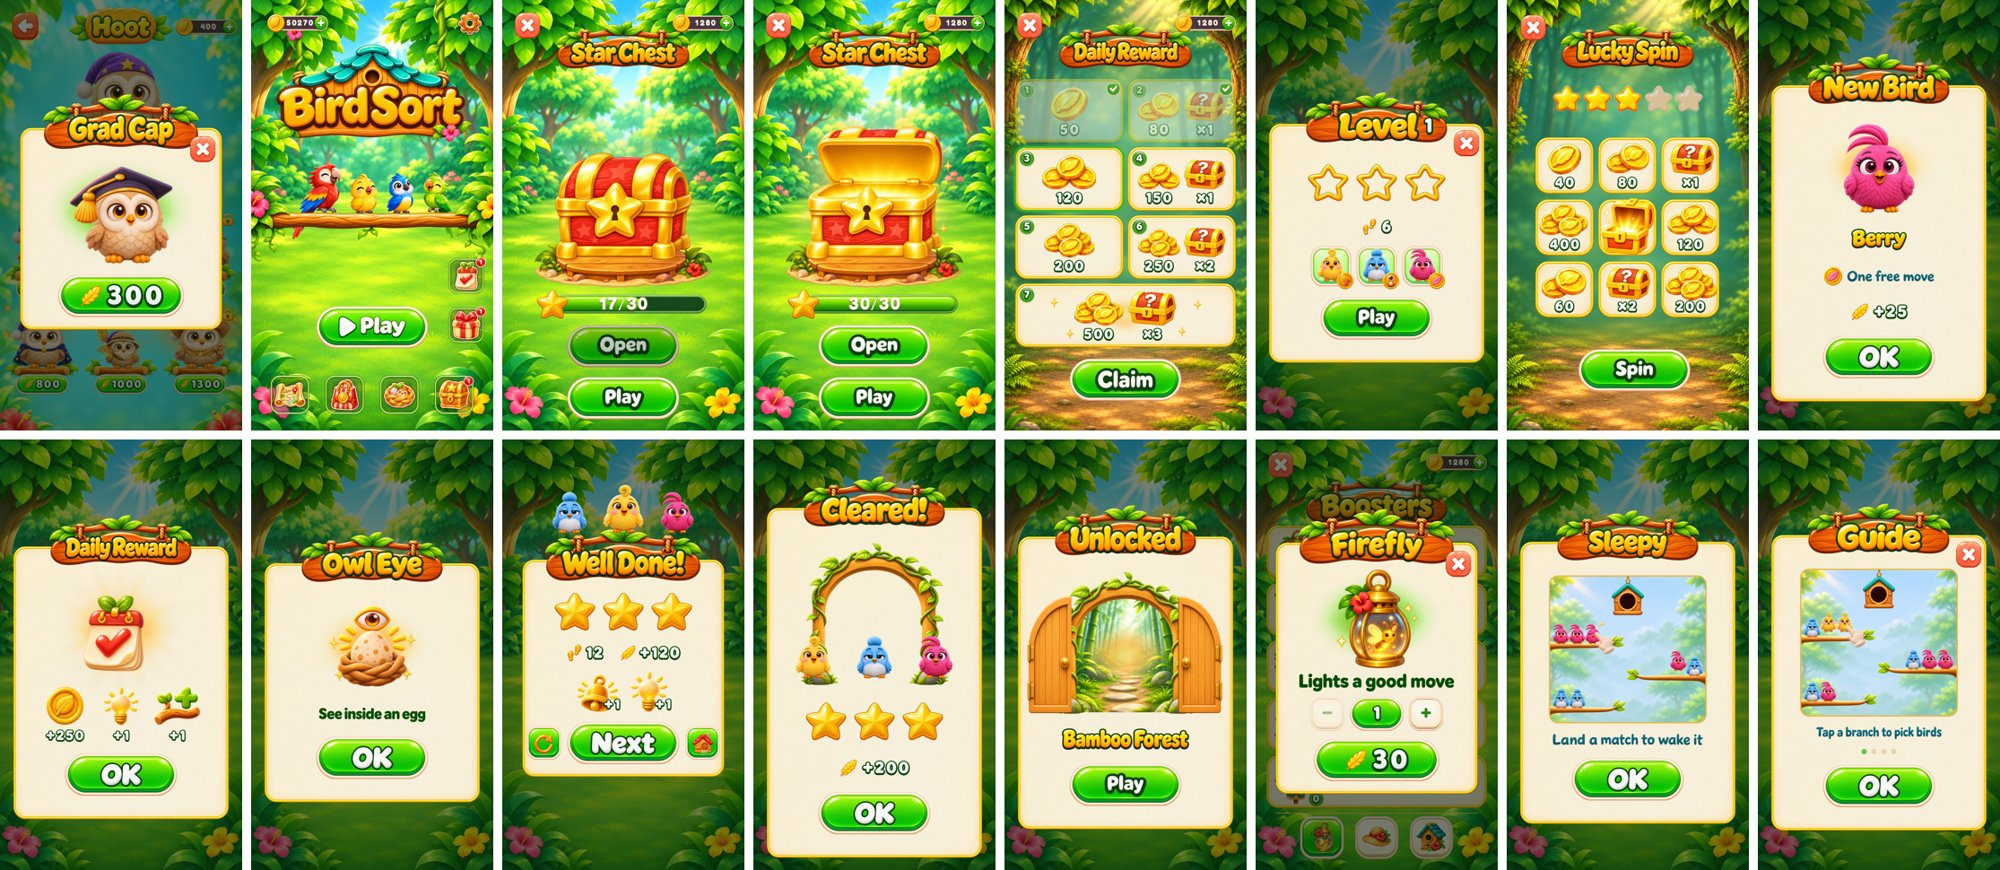
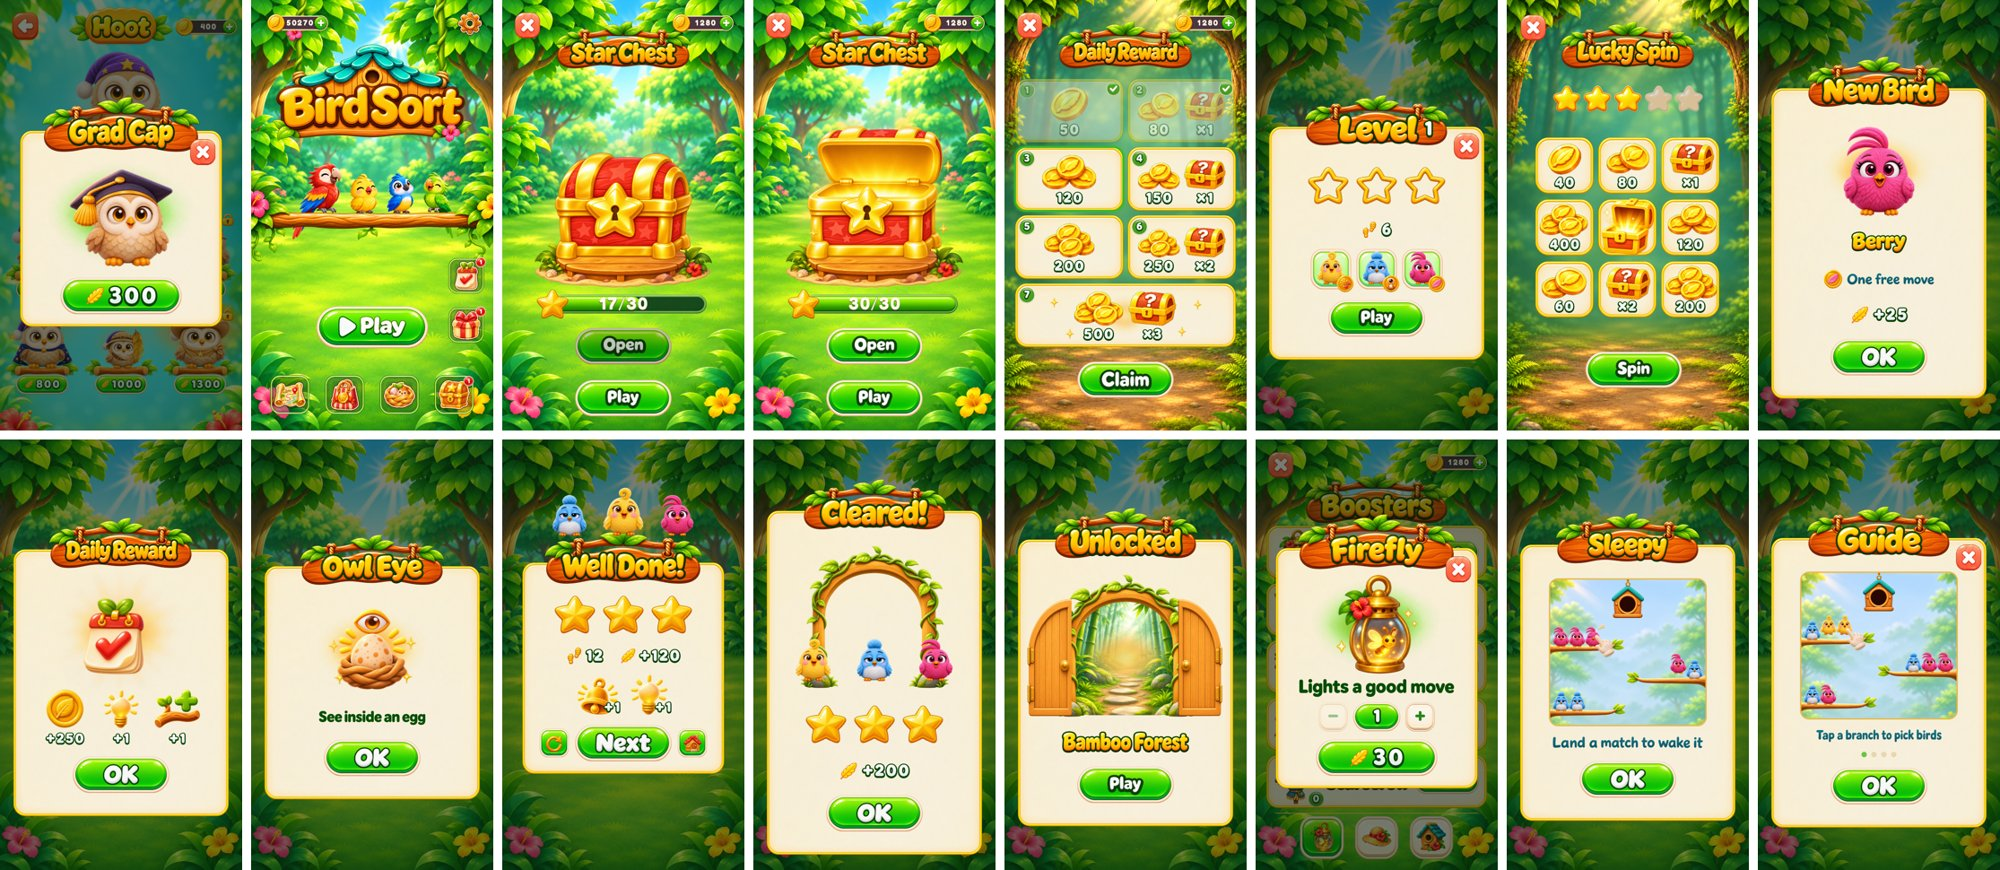
Primary buttons one step bigger, in proportion (430x162)
The home Play stays the largest button. Page and popup primaries grow from 360x136
to 430x162 in the Play's shape; purchase Buy 540x162. Buttons beside a primary keep
the 1.25 rule: secondaries and Modal pills 346x130, win and quantity keys 130,
quantity field 210x128.

diff --git a/docs/work-log/daily-reward/report.md b/docs/work-log/daily-reward/report.md
@@ -29,14 +29,12 @@ unchanged.
 ## Open
 - The level card's bird rings still use the mint `hud_tool_slot` inside the cream dialog card.
 
-## Primary buttons (user, 2026-11-13: "all pages' main buttons bigger and longer, like the home Play")
-- `ButtonKit.PRIMARY` 360 x 136 -> 500 x 188, the home Play button's visible size and shape (same 2.65 ratio as the
-  green plate). Same in `FamilyDialog.PRIMARY`, `UI.PLAY_SIZE`, the tutorial Got It.
-- Purchase Buy `WIDE` 520 x 132 -> 560 x 188. List and shop-card actions (`SECONDARY` 288 x 108) are not page
-  primaries and stay.
-- The 1.25 rule: buttons beside a primary grow with it. Dialog secondaries 400 x 152, Modal secondary pills
-  400 x 152, win Retry/Home keys 152, quantity keys 152 with a 240 x 150 field.
-- Hit areas of the chest, draw result and daily pages enclose the larger plate.
-- Checks: run_tests (naming, smoke, core), run_chest, run_family_dialogs 1780, run_purchase_buttons 128,
-  run_purchase_dialogs 98, run_draw_result 353, run_gameplay_dialogs 72, run_dialog_skin 192, run_menu_navigation
-  107: all 0 failures. Captures of 16 pages: `evidence/primary_buttons.jpg`.
+## Primary buttons (user, 2026-11-13: main buttons a bit bigger, in proportion, like the home Play)
+- A first pass made every primary exactly the home Play size (500 x 188); the user wanted them only a bit bigger and
+  in proportion with each page, the home Play staying the largest.
+- `ButtonKit.PRIMARY` 360 x 136 -> 430 x 162 (+19 %, the home Play's 2.65 shape). Same in `FamilyDialog.PRIMARY`,
+  `UI.PLAY_SIZE`, the tutorial Got It. Purchase Buy `WIDE` 520 x 132 -> 540 x 162. List and shop-card actions
+  (`SECONDARY` 288 x 108) are not page primaries and stay.
+- The 1.25 rule: dialog secondaries and Modal pills 346 x 130, win Retry/Home keys 130, quantity keys 130 with a
+  210 x 128 field.
+- Captures of 16 pages: `evidence/primary_buttons.jpg`.

diff --git a/docs/design/island-style.md b/docs/design/island-style.md
@@ -52,8 +52,8 @@ piece has one size and one look in every state (disabled is dimmed, never smalle
 - Titles hang on a carved wooden plank from two twisted ropes with vines, hibiscus and plumeria at the ends.
 - Popups: orange wooden frame with a cream inner panel (960 wide), hibiscus and leaves at the corners, a shell at
   the bottom centre, a large rope sign (760 wide) with the gold title straddling the top edge and a cream close tile
-  at the top right. Actions sit inside the frame at the bottom: green primary pill 500 x 188 (the home Play size, user 2026-11-13), cream secondary pills
-  400 x 152 on the row under it. Hero pictures (bird, booster, chest) stand in a soft warm glow; abilities and
+  at the top right. Actions sit inside the frame at the bottom: green primary pill 430 x 162 (the home Play shape, one step smaller; user 2026-11-13), cream
+  secondary pills 346 x 130 on the row under it. Hero pictures (bird, booster, chest) stand in a soft warm glow; abilities and
   descriptions sit on cream row cards.
 - Settings: one cream row card per switch (picture, teal word, island toggle), then the language heading and one
   chip per installed language, each named in its own language; the current one is green. Any number of languages

diff --git a/docs/design/modal-materials.md b/docs/design/modal-materials.md
@@ -32,7 +32,7 @@ the base panel and title as before. No shared UI helper or locale catalog change
 | Statistics | One 120 px row when coins exist; move icon and count beside a 380 x 120 gold reward bar, separated by 64 px |
 | Zero reward | Centred move count in the existing 100 px row |
 | Booster drops | Existing group and count badges, no extra card |
-| Actions | 500 x 188 green Next (home Play size) between 152 x 152 Replay and Home keys |
+| Actions | 430 x 162 green Next (home Play shape) between 130 x 130 Replay and Home keys |
 
 Keep the three live birds, stars, counts, drop animations, rotating rays and confetti. The next-action
 availability and every callback remain unchanged. Reward data is presented without a second backing
